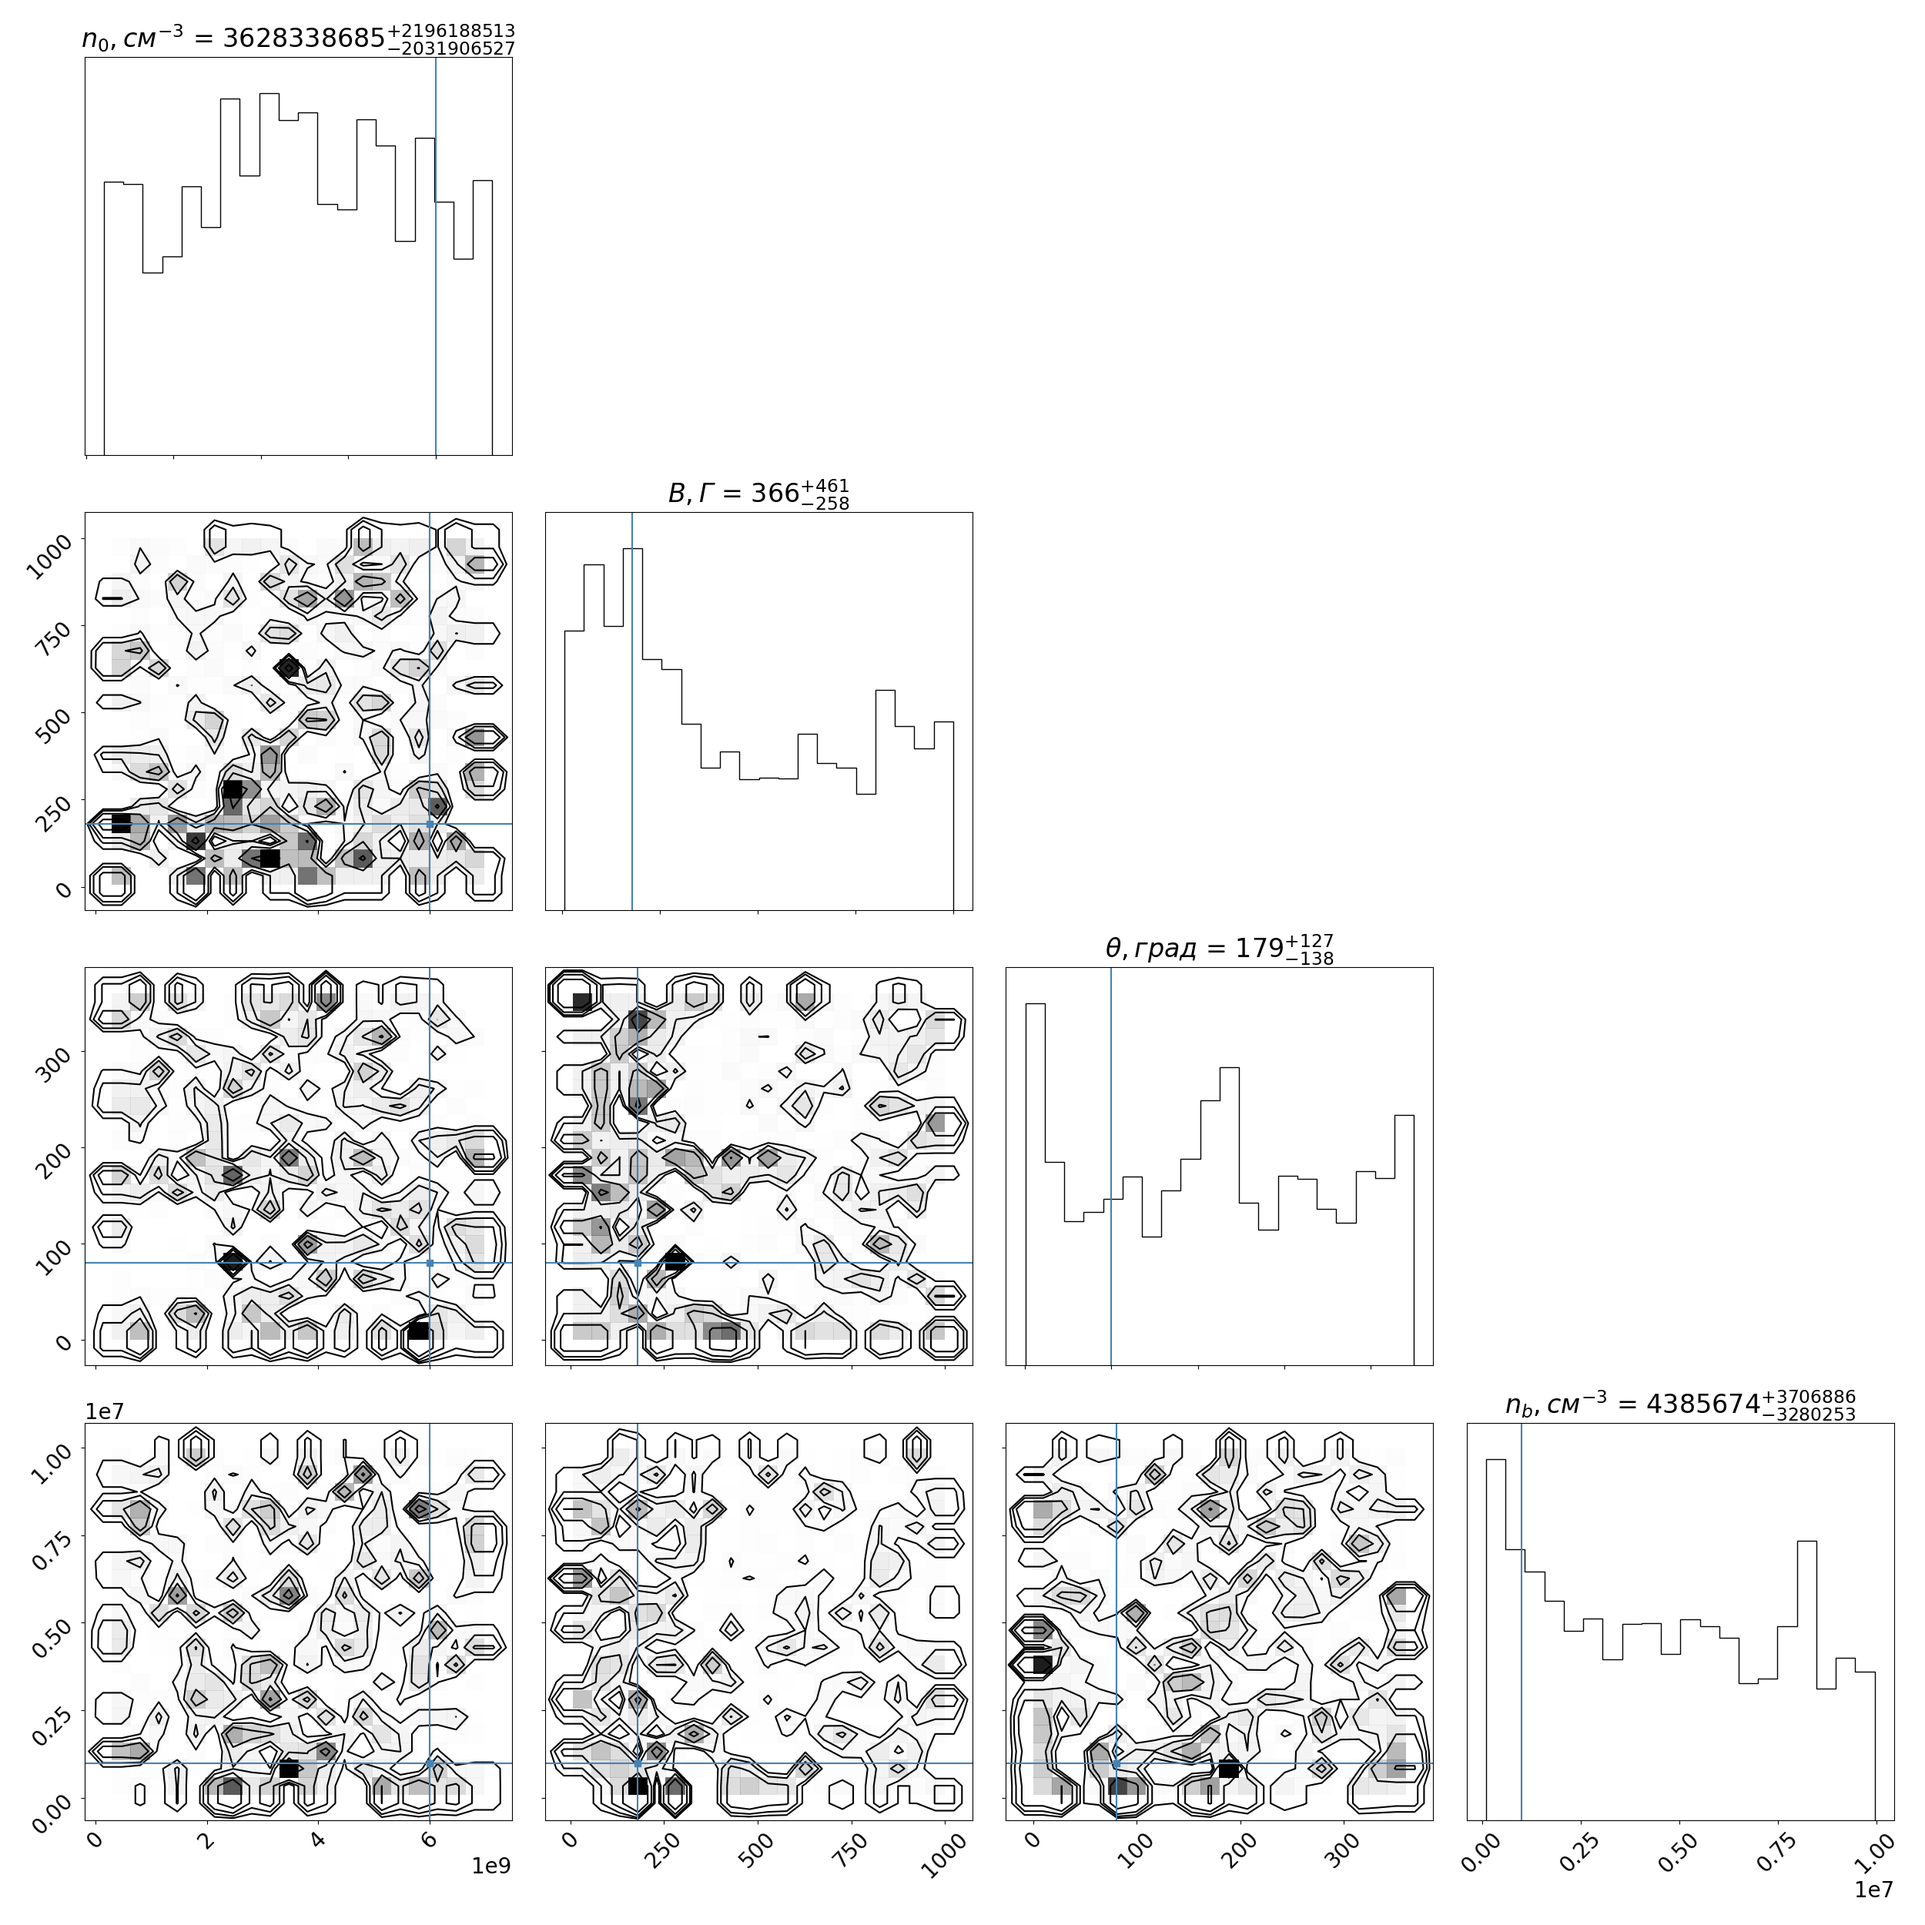
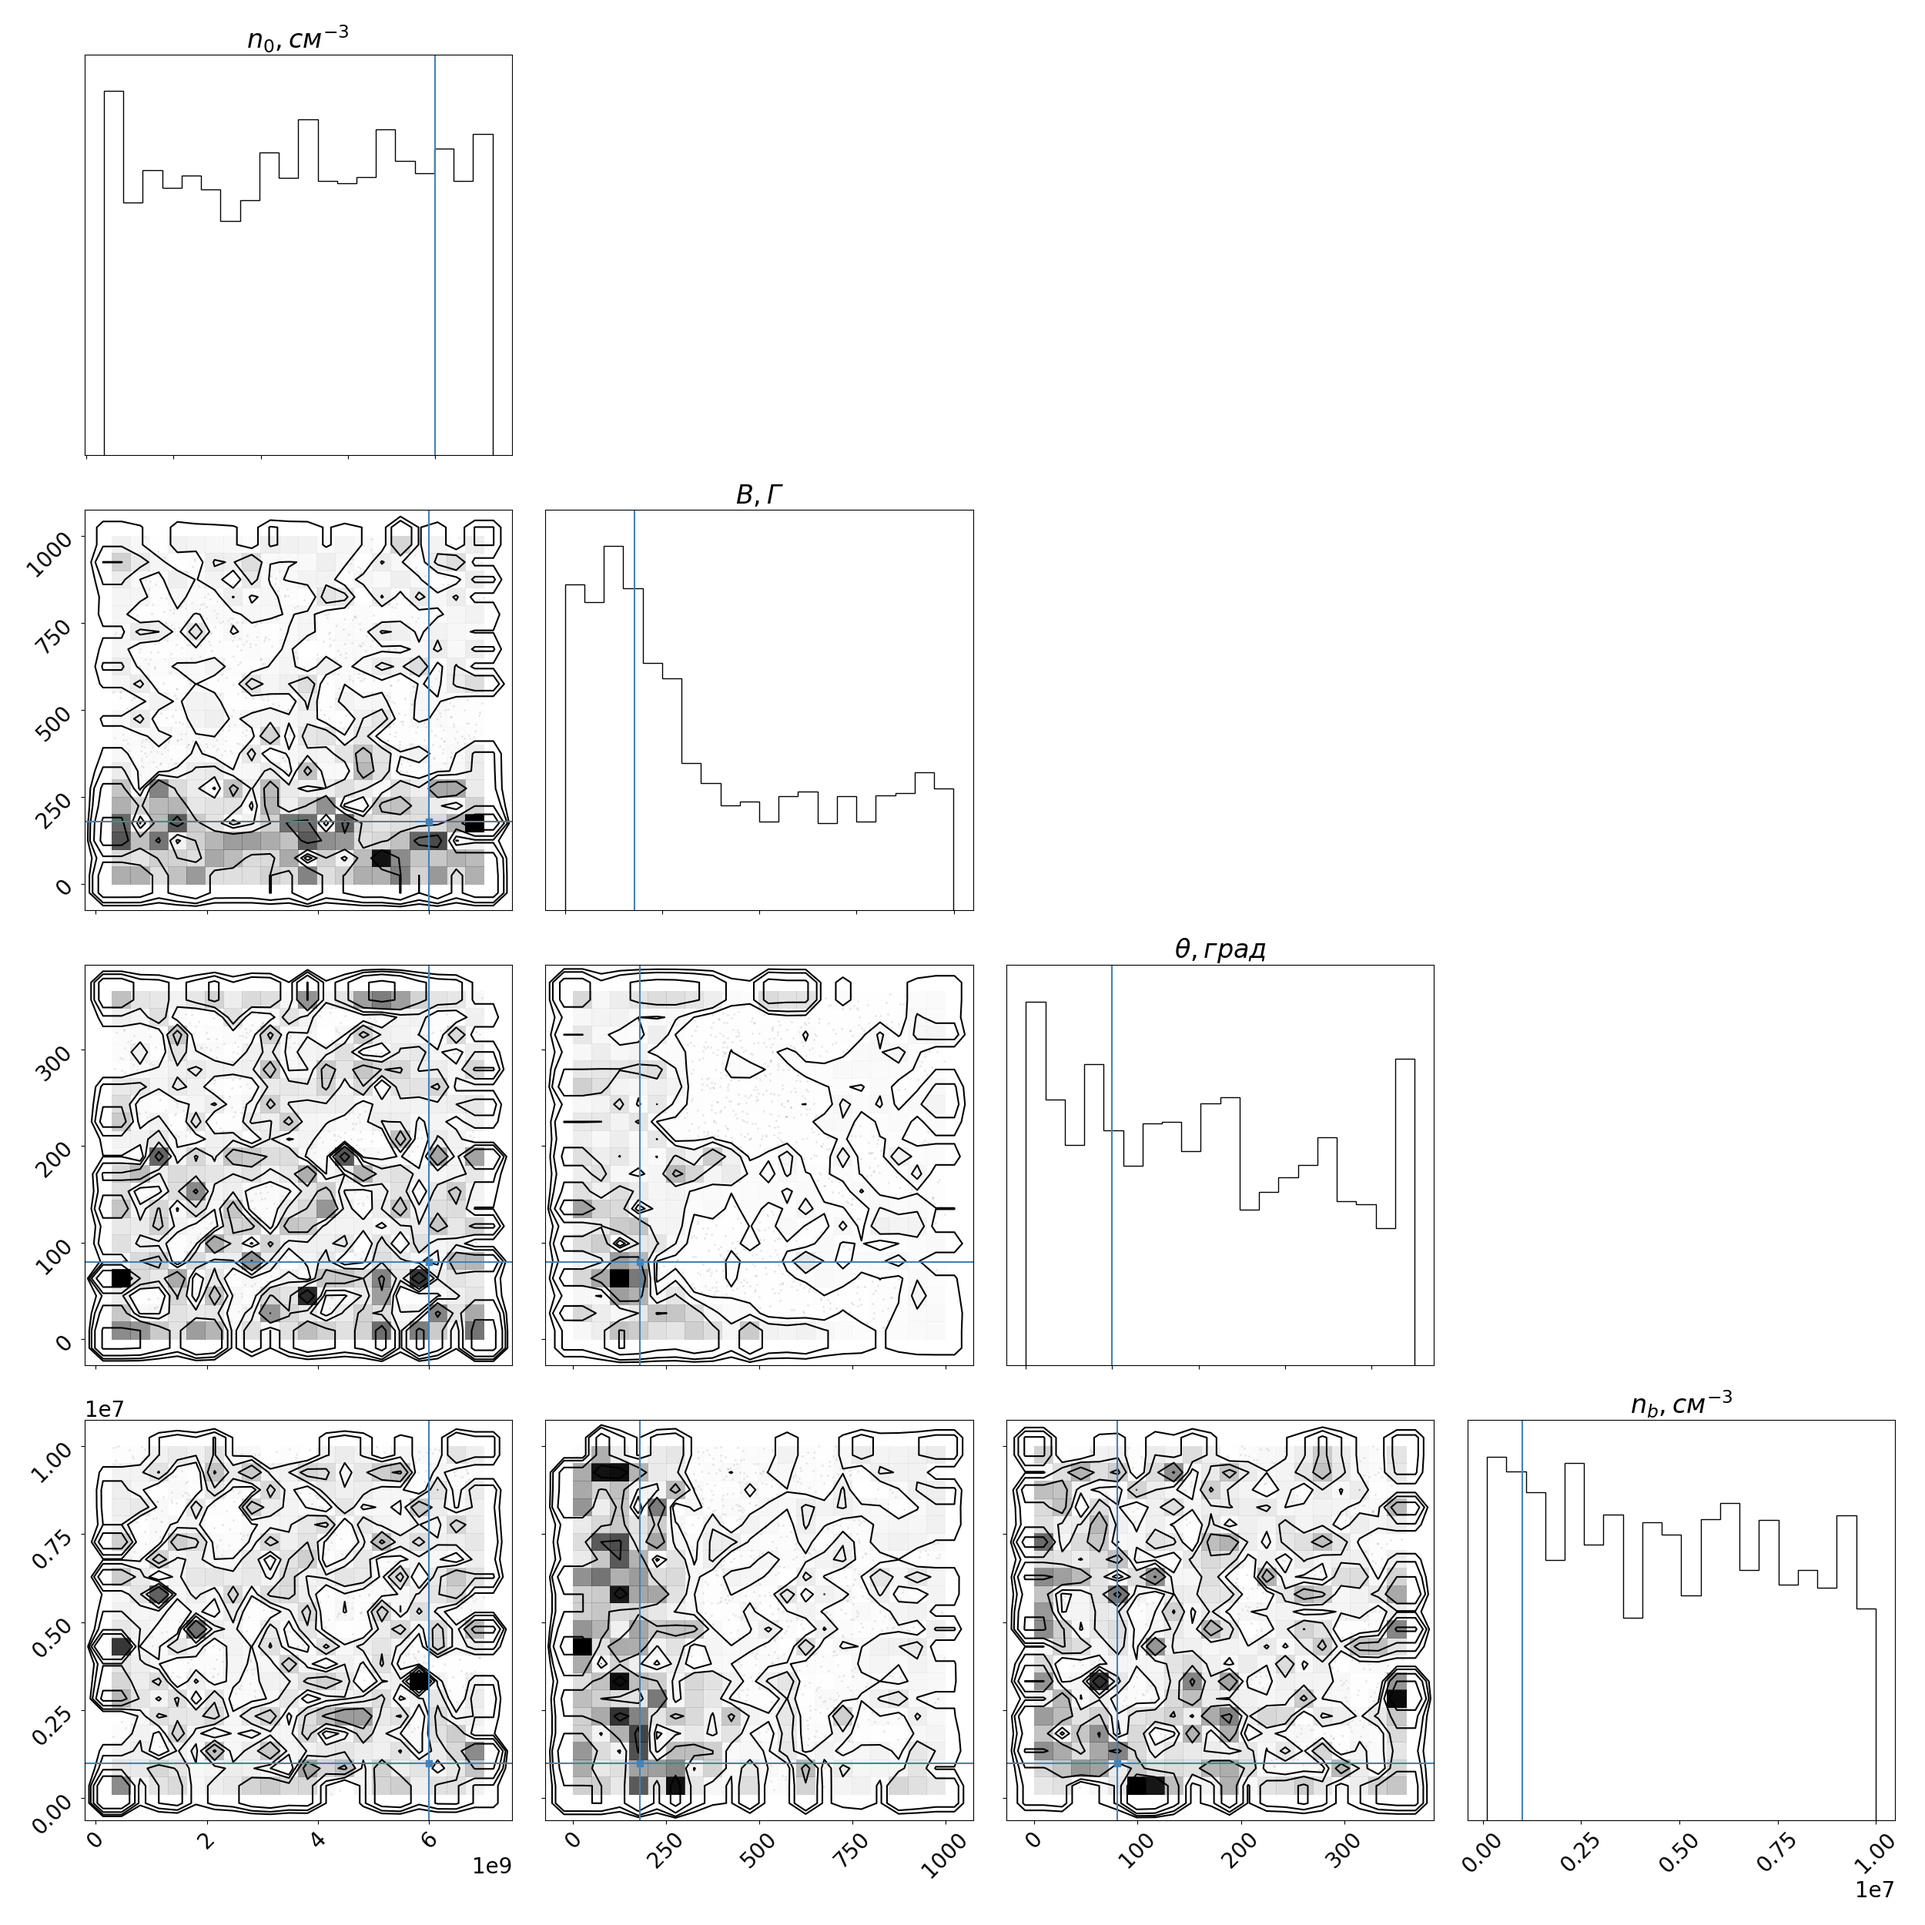
swap

diff --git a/new_gen/generatingModels.py b/new_gen/generatingModels.py
@@ -33,18 +33,12 @@ class generatingModels:
         for i in recoverable_params_indexes:
             truths.append(ParmLocal[i])
         figure1 = plt.figure(figsize=(25, 25))
-        corner.corner(data=x, weights=(1/r).ravel(), titles=(r'$n_0, см^{-3}$', r'$B, Г$', r'$\theta, град$', r'$n_b, см^{-3}$'), show_titles=True, fig = figure1, truths = truths, title_fmt='.0f', plot_datapoints=False)
+        t = [item for item in limits_of_gen_ParmLocal if not (item[0] == 0 and item[1] == 0)]
+        print(t)
+        corner.corner(data=x, weights=(1/r).ravel(), titles=(r'$n_0, см^{-3}$', r'$B, Г$', r'$\theta, град$', r'$n_b, см^{-3}$'), fig = figure1, truths = truths, title_fmt=None, show_titles=True, range=[item for item in limits_of_gen_ParmLocal if item != (0.0, 0.0)])
+        # , plot_datapoints=False
         figure1.tight_layout()
         figure1.savefig(f'corner_plot_{number_of_gen}_gen.png')
-
-        # figure1 = plt.figure(figsize=(25, 25))
-        # names=(r'$n_0, см^{-3}$', r'$B, Г$', r'$\theta, град$', r'$n_b, см^{-3}$')
-        # grids = []
-        # N=x.shape[0]
-        # for i in range(N):
-        #     grids.append(np.linspace(x[i].min(), x[i].max(), 40))
-        # makeImages(x, r, np.arange(N), names, grids, r.max(), cube_sigma=1)
-        # figure1.savefig(f'corner_plot_{number_of_gen}_gen.png')
 
     def generate(self, points, method):
         filex = open(f'{self.fname}_gen{self.gen}_x.txt', 'a')
@@ -83,7 +77,7 @@ class generatingModels:
 
         x_additional = []
         # для всех точек по их количеству
-        for i in range(points//5):
+        for i in range(points//4):
             # массив второго уровня хранящий одну точку
             one_point = []
             # проходимся по индексам и берем границы генерации 
@@ -93,7 +87,7 @@ class generatingModels:
             x_additional.append(one_point)
         x_additional = np.array(x_additional)
         x = np.concatenate((x, x_additional), axis=0)
-        np.append(x, [6e+09, 1.80e+02, 8.0e+01, 1.e+06])
+        # np.append(x, [6e+09, 1.80e+02, 8.0e+01, 1.e+06])
         # удаление отрицательных координат
         # ищем отрицательную координату в каждом наборе координат
         mask = x.min(1) > 0
@@ -210,5 +204,5 @@ class generatingModels:
 
         # рисуем график
         if do_plot: self.plot(refx)
-        plt.show()
+        # plt.show()
                 

diff --git a/new_gen/using.py b/new_gen/using.py
@@ -62,7 +62,7 @@ gen = generatingModels(func_multythread, minimizer, dimensions = n, fname = 'dat
 # gen.sigma = gen.x0 * 0.85
 
 # сумарно будет насчитано points * nchildren * ngen
-gen.Generating(ngenerations=5, nchildren=15, sigmacoeff=2, points=2**5, method='new_random_first_gen', do_plot = True, refx = recoverable_params)
+gen.Generating(ngenerations=1, nchildren=15, sigmacoeff=2, points=2**7, method='new_random_first_gen', do_plot = True, refx = recoverable_params)
 print(gen.x0)
 
 # gen.plot(recoverable_params)
